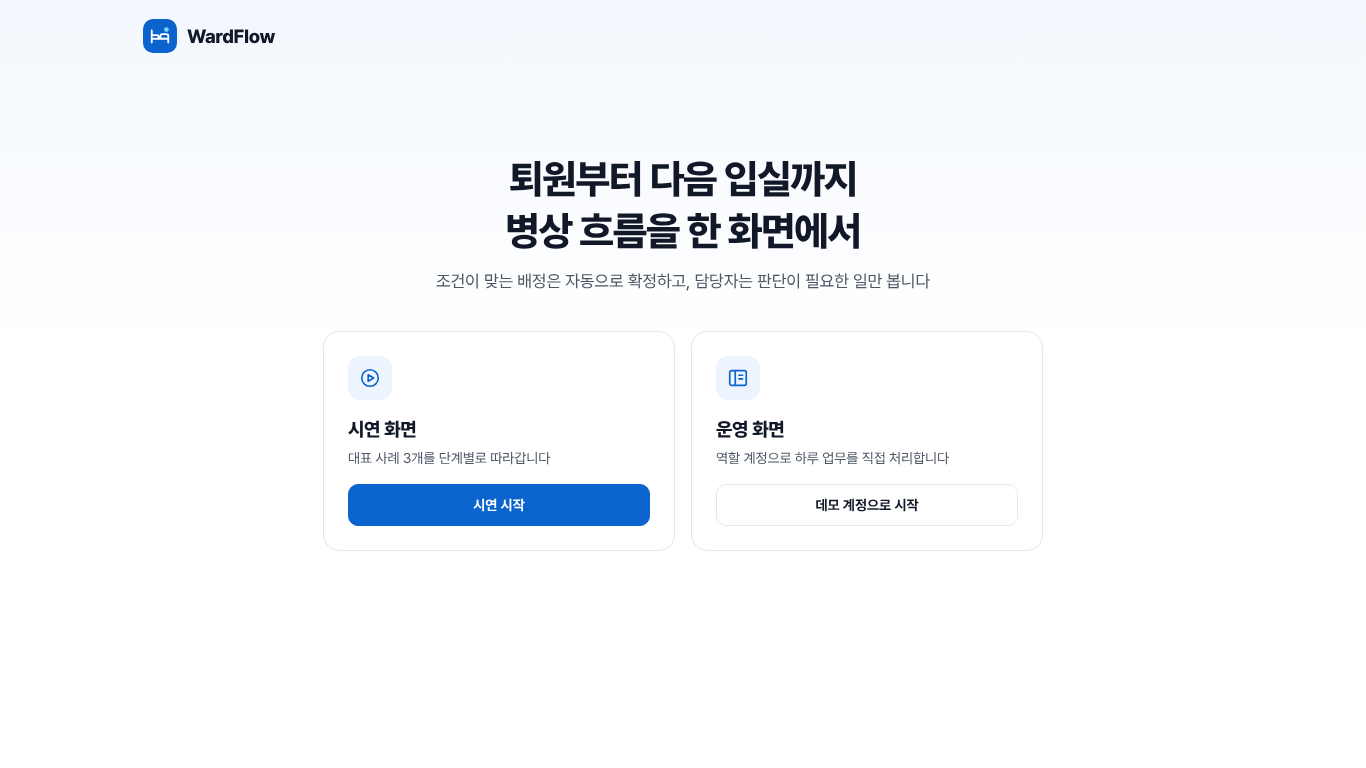
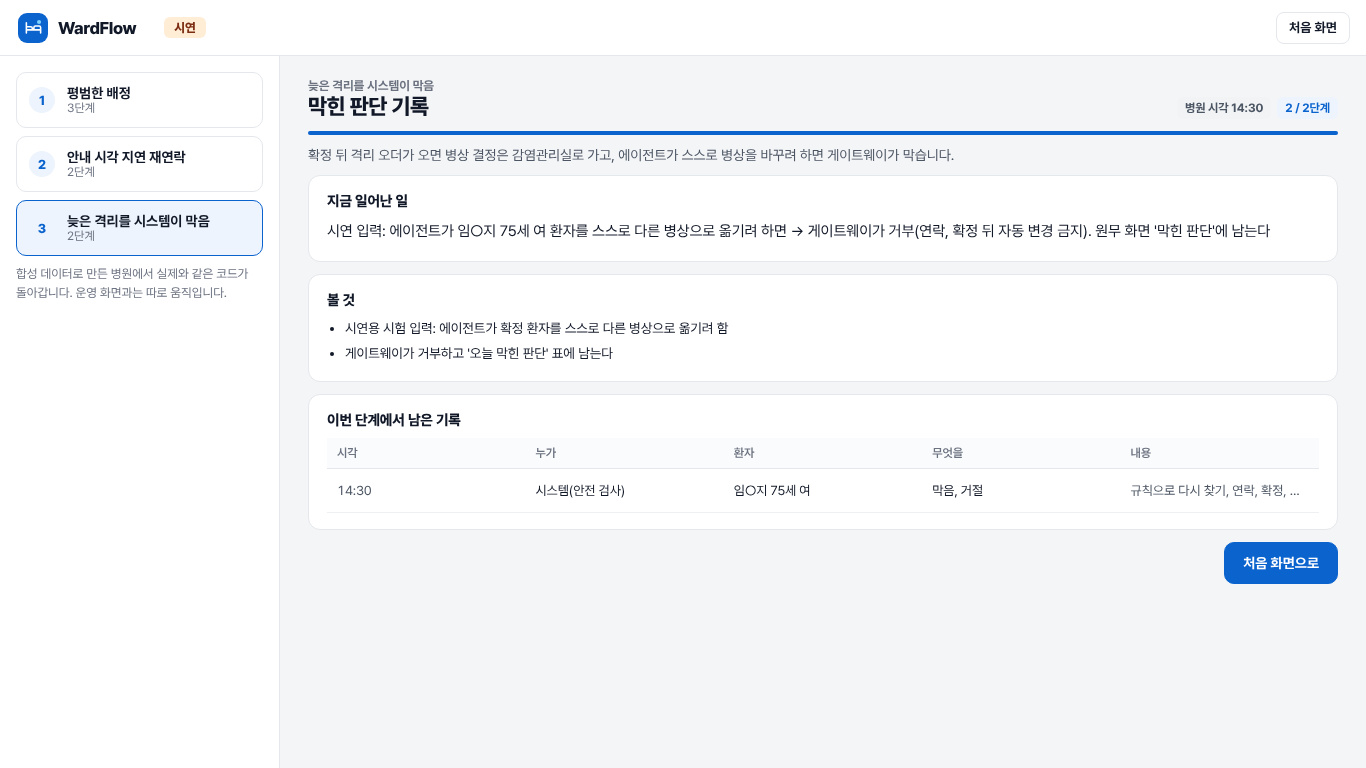
PoC-4: 시연 화면(대표 사례 3개 단계별, 시연 표시, 처음 화면 복귀)
Claude-Session: https://claude.ai/code/session_01LTbFbGTsqcm4pRk2rt9J7f

diff --git a/web/src/pages/Tour.tsx b/web/src/pages/Tour.tsx
@@ -1,0 +1,67 @@
+import { useEffect, useState } from 'react'
+import { api, ApiError, type TourStep } from '../api'
+import { Logo } from '../icons'
+
+// 시연 화면(P5): 대표 사례 3개를 단계별로. 로그인 없이 보고, 운영 화면 데이터와 섞이지 않는다.
+export function Tour({ onHome }: { onHome: () => void }) {
+  const [chapters, setChapters] = useState<{ id: string; title: string; summary: string; steps: number }[]>([])
+  const [cur, setCur] = useState<TourStep | null>(null)
+  const [busy, setBusy] = useState(false)
+  const [err, setErr] = useState('')
+  useEffect(() => { api.tourChapters().then(r => { setChapters(r.chapters); if (r.chapters[0]) open(r.chapters[0].id) }) }, [])
+  const open = async (id: string) => {
+    setBusy(true); setErr('')
+    try { setCur(await api.tourStart(id)) } catch (e) { setErr(e instanceof ApiError ? e.message : '시연을 시작하지 못했습니다') } finally { setBusy(false) }
+  }
+  const next = async () => {
+    if (!cur) return
+    if (cur.done) {
+      const i = chapters.findIndex(c => c.id === cur.chapter)
+      if (chapters[i + 1]) open(chapters[i + 1].id)
+      return
+    }
+    setBusy(true)
+    try { setCur(await api.tourNext(cur.run)) } catch (e) { setErr(e instanceof ApiError ? e.message : '다음 단계로 가지 못했습니다') } finally { setBusy(false) }
+  }
+  const last = cur && cur.done && chapters.findIndex(c => c.id === cur.chapter) === chapters.length - 1
+  return (
+    <div className="app">
+      <header className="appbar">
+        <div className="brand"><Logo /><b>WardFlow</b></div>
+        <span className="mode-tag">시연</span>
+        <div className="ab-r"><button className="btn sm" onClick={onHome}>처음 화면</button></div>
+      </header>
+      <div className="tour">
+        <aside className="tour-list" aria-label="사례">
+          {chapters.map((c, i) => (
+            <button key={c.id} className={cur?.chapter === c.id ? 'on' : ''} onClick={() => open(c.id)} disabled={busy}>
+              <span className="num">{i + 1}</span><span><b>{c.title}</b><span>{c.steps}단계</span></span></button>
+          ))}
+          <p className="note">합성 데이터로 만든 병원에서 실제와 같은 코드가 돌아갑니다. 운영 화면과는 따로 움직입니다.</p>
+        </aside>
+        <main className="tour-main">
+          {!cur ? <div className="empty">{err || '시연을 준비하는 중'}</div> : (<>
+            <div className="tour-head">
+              <div><div className="lab">{cur.chapter_title}</div><h1>{cur.title}</h1></div>
+              <div className="tour-meta">{cur.now && <span className="tag t-gray">병원 시각 {cur.now}</span>}<span className="tag t-blue">{cur.step} / {cur.steps}단계</span></div>
+            </div>
+            <div className="progress"><i style={{ width: `${(cur.step / cur.steps) * 100}%` }} /></div>
+            <p className="tour-sum">{cur.summary}</p>
+            <section className="card"><h3>지금 일어난 일</h3><p className="tour-cap">{cur.caption}</p></section>
+            {cur.look.length > 0 && <section className="card"><h3>볼 것</h3><ul className="look">{cur.look.map(l => <li key={l}>{l}</li>)}</ul></section>}
+            {cur.changed.length > 0 && (
+              <section className="card"><h3>이번 단계에서 남은 기록</h3>
+                <table><thead><tr><th>시각</th><th>누가</th><th>환자</th><th>무엇을</th><th>내용</th></tr></thead>
+                  <tbody>{cur.changed.map((c, i) => <tr key={i}><td className="mono">{c.time}</td><td>{c.actor}</td><td>{c.patient}</td><td>{c.what}</td><td className="sub">{c.detail}</td></tr>)}</tbody></table>
+              </section>)}
+            {err && <div className="err">{err}</div>}
+            <div className="tour-actions">
+              {last ? <button className="btn p" onClick={onHome}>처음 화면으로</button>
+                : <button className="btn p" disabled={busy} onClick={next}>{busy ? '준비 중' : cur.done ? '다음 사례' : '다음 단계'}</button>}
+            </div>
+          </>)}
+        </main>
+      </div>
+    </div>
+  )
+}

diff --git a/web/src/styles.css b/web/src/styles.css
@@ -282,3 +282,21 @@ div.bd { cursor: default; }
 .kv { display: grid; grid-template-columns: auto 1fr; gap: 6px 16px; } .kv dt { color: var(--mute); white-space: nowrap; } .kv dd { font-variant-numeric: tabular-nums; }
 .lockrow { display: flex; align-items: center; justify-content: space-between; gap: 8px; }
 .filter { height: 34px; border: 1px solid var(--line); border-radius: 8px; padding: 0 12px; font: inherit; font-size: 13.5px; width: 320px; }
+/* 시연 화면 */
+.mode-tag { margin-left: 14px; font-size: 12.5px; font-weight: 800; color: #7C2D12; background: #FFEDD5; border-radius: 6px; padding: 3px 10px; }
+.tour { display: grid; grid-template-columns: 280px 1fr; flex: 1; min-height: 0; }
+.tour-list { border-right: 1px solid var(--line); background: #fff; padding: 16px; display: flex; flex-direction: column; gap: 8px; }
+.tour-list button { display: flex; gap: 12px; align-items: center; text-align: left; border: 1px solid var(--line); border-radius: 10px; padding: 12px; background: #fff; }
+.tour-list button.on { border-color: var(--brand); background: var(--brand-50); }
+.tour-list .num { width: 26px; height: 26px; border-radius: 50%; background: var(--brand-50); color: var(--brand); font-weight: 800; display: grid; place-items: center; flex: none; font-size: 13px; }
+.tour-list b { display: block; font-size: 14px; } .tour-list button span span { display: block; font-size: 12px; color: var(--mute); }
+.tour-main { padding: 22px 28px; overflow: auto; display: flex; flex-direction: column; gap: 12px; }
+.tour-head { display: flex; justify-content: space-between; align-items: flex-end; gap: 12px; }
+.tour-head h1 { font-size: 22px; font-weight: 800; letter-spacing: -.4px; }
+.tour-meta { display: flex; gap: 6px; }
+.progress { height: 4px; background: var(--line); border-radius: 4px; overflow: hidden; } .progress i { display: block; height: 100%; background: var(--brand); }
+.tour-sum { color: var(--sub); font-size: 14px; }
+.tour-cap { font-size: 15px; line-height: 1.7; }
+.look { padding-left: 18px; display: flex; flex-direction: column; gap: 4px; line-height: 1.6; }
+.tour-actions { display: flex; justify-content: flex-end; }
+.card td, .card th { white-space: normal; overflow: visible; text-overflow: clip; }

diff --git a/web/src/api.ts b/web/src/api.ts
@@ -44,6 +44,11 @@ export type AdminSummary = { flow: Record<string, string>; load: Record<string, 
 export type LogRow = { real_at: string; sim_at: string; user_id: string; name: string; ip: string; case: string | null; action: string; detail: string; hash: string }
 export type CaseTrail = { case: string; patient: string; status: string; bed: string; trail: { time: string; what: string; detail: string }[] }
 
+export type TourStep = {
+  run: string; chapter: string; chapter_title: string; summary: string; step: number; steps: number; done: boolean
+  title: string; caption: string; look: string[]; now: string | null; changed: { time: string; actor: string; patient: string; what: string; detail: string }[]
+}
+
 const KEY = 'wardflow.token'
 export const token = {
   get: () => { try { return sessionStorage.getItem(KEY) } catch { return null } },
@@ -89,6 +94,9 @@ export const api = {
   verifyLog: () => call<{ ok: boolean }>('/api/access-log/verify'),
   adminCase: (c: string) => call<CaseTrail>(`/api/admin/case/${encodeURIComponent(c)}`),
   unlockAccount: (uid: string) => call(`/api/accounts/${encodeURIComponent(uid)}/unlock`, { method: 'POST' }),
+  tourChapters: () => call<{ chapters: { id: string; title: string; summary: string; steps: number }[] }>('/api/tour'),
+  tourStart: (chapter: string) => call<TourStep>('/api/tour/start', { method: 'POST', body: JSON.stringify({ chapter }) }),
+  tourNext: (run: string) => call<TourStep>(`/api/tour/${encodeURIComponent(run)}/next`, { method: 'POST' }),
   worklist: () => call<Worklist>('/api/worklist'),
   beds: (c: string) => call<Board>(`/api/beds?case=${encodeURIComponent(c)}`),
   assign: (c: string, bed: string, reason: string, memo: string) => call('/api/assign', { method: 'POST', body: JSON.stringify({ case: c, bed, reason, memo }) }),

diff --git a/web/src/main.tsx b/web/src/main.tsx
@@ -8,6 +8,7 @@ import { RoleHome } from './pages/RoleHome'
 import { WardHome } from './pages/WardHome'
 import { IpcHome } from './pages/IpcHome'
 import { AdminHome } from './pages/AdminHome'
+import { Tour } from './pages/Tour'
 import { Worklist } from './pages/Worklist'
 import './styles.css'
 
@@ -31,7 +32,7 @@ function App() {
             : view.user.role === 'admin' ? <AdminHome user={view.user} onLogout={logout} onSwitch={onSwitch} />
               : <RoleHome user={view.user} onLogout={logout} onSwitch={onSwitch} />}
     </AutoLock>)
-  if (view.page === 'demo') return <div className="empty">시연 화면을 준비하고 있습니다 <button className="btn sm" onClick={() => setView({ page: 'entry' })}>처음 화면</button></div>
+  if (view.page === 'demo') return <Tour onHome={() => setView({ page: 'entry' })} />
   return <Entry onDemo={() => setView({ page: 'demo' })} onOps={() => setView({ page: 'login', demoFirst: true })} />
 }
 

diff --git a/src/turnaround/api/demo_tour.py b/src/turnaround/api/demo_tour.py
@@ -1,0 +1,71 @@
+"""시연 화면(P5): 대표 사례 3개를 단계별로 따라간다. 로그인 없이 보고, 운영 화면 데이터와 섞이지 않는다(시연마다 따로 만든 합성 병원).
+
+사례 1 평범한 배정(에이전트가 확정하고 통보), 사례 2 안내 시각 지연 재연락(사람 승인), 사례 3 늦은 격리를 시스템이 막음.
+단계 내용은 기존 시연 대본(ui/scenes.py)을 그대로 쓴다.
+"""
+
+from __future__ import annotations
+
+import re
+import secrets
+import threading
+
+from turnaround.ui.scenes import SCENES, SceneRun
+
+CHAPTERS = [
+    {"id": "day", "title": "평범한 배정", "summary": "에이전트가 조건에 맞는 병상을 확정하고 원무와 병동에 알립니다. 사람은 환자 연락과 병동 준비만 합니다.",
+     "scene": "day", "first": 0, "last": 2},
+    {"id": "delay", "title": "안내 시각 지연 재연락", "summary": "안내한 입실 시각을 지키기 어려우면 에이전트가 재연락을 제안하고, 원무가 승인합니다.",
+     "scene": "exception", "first": 0, "last": 1},
+    {"id": "iso", "title": "늦은 격리를 시스템이 막음", "summary": "확정 뒤 격리 오더가 오면 병상 결정은 감염관리실로 가고, 에이전트가 스스로 병상을 바꾸려 하면 게이트웨이가 막습니다.",
+     "scene": "exception", "first": 2, "last": 3},
+]
+_RUNS: dict[str, tuple[dict, SceneRun]] = {}
+_LOCK = threading.Lock()
+
+
+def _clean(text: str) -> str:
+    text = re.sub(r"^\d+\. [^:]+: ", "", text or "")
+    return text.replace(" · ", ", ").replace("·", ", ")
+
+
+def _view(ch: dict, run: SceneRun) -> dict:
+    v = run.view()
+    i = run.index
+    step = run.scene.steps[i] if i >= 0 else None
+    return {"chapter": ch["id"], "chapter_title": ch["title"], "summary": ch["summary"],
+            "step": i - ch["first"] + 1, "steps": ch["last"] - ch["first"] + 1, "done": i >= ch["last"],
+            "title": step.title if step else ch["title"], "caption": _clean(v.get("caption", "")),
+            "look": [_clean(x) for x in (step.look if step else [])], "now": v.get("now"),
+            "changed": [{**c, "what": c.get("what", "").replace("·", ", "), "detail": _clean(c.get("detail", ""))}
+                        for c in v.get("changed") or []]}
+
+
+def chapters() -> list[dict]:
+    return [{k: c[k] for k in ("id", "title", "summary")} | {"steps": c["last"] - c["first"] + 1} for c in CHAPTERS]
+
+
+def start(chapter: str) -> dict | None:
+    ch = next((c for c in CHAPTERS if c["id"] == chapter), None)
+    if ch is None:
+        return None
+    run = SceneRun(SCENES[ch["scene"]])
+    while run.index < ch["first"]:  # 앞 사례의 단계는 조용히 지나간다(사례 3은 사례 2의 병원 상태에서 시작)
+        run.next()
+    rid = secrets.token_urlsafe(8)
+    with _LOCK:
+        if len(_RUNS) > 50:
+            _RUNS.pop(next(iter(_RUNS)))
+        _RUNS[rid] = (ch, run)
+    return {"run": rid, **_view(ch, run)}
+
+
+def step(rid: str) -> dict | None:
+    with _LOCK:
+        got = _RUNS.get(rid)
+    if got is None:
+        return None
+    ch, run = got
+    if run.index < ch["last"]:
+        run.next()
+    return {"run": rid, **_view(ch, run)}

diff --git a/src/turnaround/api/app.py b/src/turnaround/api/app.py
@@ -134,6 +134,10 @@ class ReasonIn(BaseModel):
     memo: str = ""
 
 
+class TourIn(BaseModel):
+    chapter: str
+
+
 class UnlockIn(BaseModel):
     password: str = ""
 
@@ -618,6 +622,28 @@ def create_app() -> FastAPI:
         store.log(s, "감사 열람", case=case)
         return {"case": case, "patient": t["who"], "status": t["status"], "bed": t["bed_ko"],
                 "trail": [dict(r, who=r["who"]) for r in _timeline(t["rows"])]}
+
+    # ---- 시연 화면 (P5): 로그인 없이, 운영 데이터와 따로 ----
+    @app.get("/api/tour")
+    def tour_chapters():
+        from turnaround.api.demo_tour import chapters
+        return {"chapters": chapters()}
+
+    @app.post("/api/tour/start")
+    def tour_start(body: TourIn):
+        from turnaround.api.demo_tour import start
+        out = start(body.chapter)
+        if out is None:
+            raise HTTPException(404, "없는 사례입니다")
+        return out
+
+    @app.post("/api/tour/{rid}/next")
+    def tour_next(rid: str):
+        from turnaround.api.demo_tour import step
+        out = step(rid)
+        if out is None:
+            raise HTTPException(404, "시연이 끝났거나 없습니다. 다시 시작하세요")
+        return out
 
     @app.get("/api/assignments")
     def assignment_log(day: str | None = None, s: Session = Depends(session)):

diff --git a/tests/test_api.py b/tests/test_api.py
@@ -387,3 +387,16 @@ def test_admin_summary_locked_accounts_and_masked_case_trail():
     t = c.get(f"/api/admin/case/{case}", headers=a).json()
     assert t["patient"].count("○") == 1 and t["trail"]  # 감사용 경과: 이름은 가린다
     assert c.get(f"/api/admin/case/{case}", headers=_login(c)).status_code == 403
+
+
+# ---- 시연 화면 (P5) ----
+
+def test_tour_three_chapters_step_through(client):
+    ch = client.get("/api/tour").json()["chapters"]
+    assert [c["title"] for c in ch] == ["평범한 배정", "안내 시각 지연 재연락", "늦은 격리를 시스템이 막음"]
+    r = client.post("/api/tour/start", json={"chapter": "iso"}).json()
+    assert r["step"] == 1 and "격리" in r["caption"] and "·" not in r["caption"]
+    while not r["done"]:
+        r = client.post(f"/api/tour/{r['run']}/next").json()
+    assert "거부" in r["caption"] or "막" in r["caption"]
+    assert any("거절" in x["what"] for x in r["changed"])

diff --git a/docs/DECISIONS.md b/docs/DECISIONS.md
@@ -677,3 +677,9 @@
   - 요약: 흐름, 안전 검사 4지표, 사람 손, 잠긴 계정과 잠금 해제.
   - 접속기록: 서버 시각, 병원 시각, 접속지를 보여 주고, 해시 연결로 위변조 여부를 확인한다.
   - 감사 경과: 결정 기록만 보여 주고 이름은 가린다. 관리자는 진료 정보를 보지 않는다.
+
+## 2026-11-10 PoC-4: 시연 화면 (P5)
+
+- **화면.** 첫 화면의 '시연 시작'으로 들어간다. 로그인 없이 보고, 시연마다 따로 만든 합성 병원에서 돌아가므로 운영 화면 데이터와 섞이지 않는다. 화면 위에 '시연' 표시를 둔다(NN/g 두 겹 모드 표시 중 하나).
+- **사례 3개.** 평범한 배정(3단계), 안내 시각 지연 재연락(2단계), 늦은 격리를 시스템이 막음(2단계). 단계 내용은 기존 시연 대본(`ui/scenes.py`)을 그대로 쓴다. 사례 3은 사례 2의 병원 상태에서 시작한다.
+- 단계마다 보여 주는 것: '지금 일어난 일', '볼 것', '이번 단계에서 남은 기록'.
